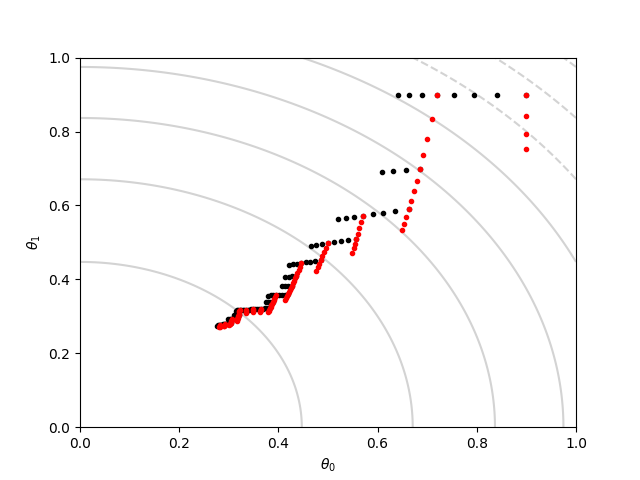
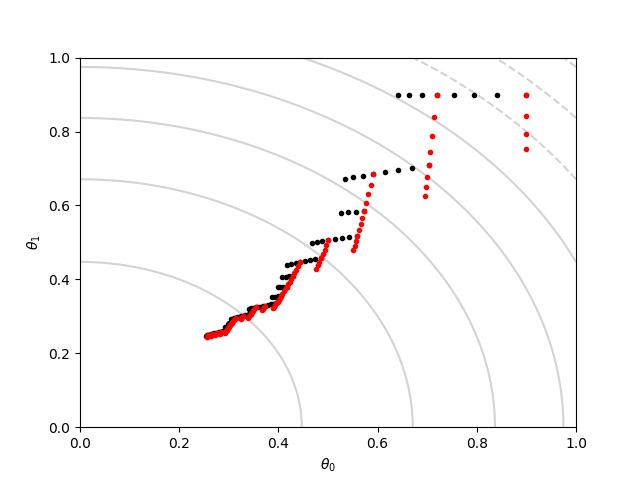
Remove the INIT worker instruction

Changed region(s): [[0.3125, 0.2812, 0.6875, 0.7188], [0.6562, 0.2188, 0.6875, 0.25]]

diff --git a/toy_model.py b/toy_model.py
@@ -11,8 +11,6 @@ class ToyModel:
         self.perturb_factors = [0.8, 1.2]
         self.lr = 0.02
 
-        
-
         if cluster_id == 0:
             self.hparams['h_0'] = 0.0
             self.hparams['h_1'] = 1.0
@@ -22,9 +20,6 @@ class ToyModel:
 
         self.build_graph_from_hparams(is_first_call=True)
         self.train_log = []
-
-    def init_variables(self):
-        self.sess.run([var.initializer for var in self.trainable_vars])
 
     def train(self, num_steps):
         for i in range(num_steps):
@@ -37,8 +32,6 @@ class ToyModel:
         self.hparams['h_1'] = self._perturb_float(self.hparams['h_1'], 0.0, 1.0)
         self.build_graph_from_hparams(is_first_call=False)
 
-    #the loss is not the same as the loss to compute the gradients
-    #this may be another bug of the paper
     def get_loss(self):
         return self.sess.run(self.fake_loss)
 
@@ -66,7 +59,6 @@ class ToyModel:
         config = tf.ConfigProto()
         config.gpu_options.per_process_gpu_memory_fraction = 0.1
         self.sess = tf.Session(graph=self.tf_graph, config=config)
-
         
         with self.tf_graph.as_default():
             self.theta_0 = tf.Variable(0.9)
@@ -80,7 +72,7 @@ class ToyModel:
             self.train_op = self.optimizer.minimize(self.loss)
 
             self.trainable_vars = [self.theta_0, self.theta_1]
-        self.init_variables()
+        self.sess.run([var.initializer for var in self.trainable_vars])
 
         if not is_first_call:
             for i in range(len(self.trainable_vars)):

diff --git a/main_manager.py b/main_manager.py
@@ -1,9 +1,8 @@
 # mpirun --oversubscribe -n 5 python main_manager.py
-#docker run hongfr/mpi-with-ssh
+#docker run hongfr/mpi-tf
 
 from mpi4py import MPI
 import os
-import time
 import tensorflow as tf
 
 from pbt_cluster import PBTCluster
@@ -18,13 +17,13 @@ rank = comm.Get_rank()
 master_rank = 0
 if rank == master_rank:
     #The PBT case
-    cluster = PBTCluster(2, comm, master_rank)
+    #cluster = PBTCluster(2, comm, master_rank)
     #The exploit only case
     #cluster = PBTCluster(2, comm, master_rank, do_explore=False)
     #The explore only case(still dirty, needs to change the code around line 78 to make this work)
     #cluster = PBTCluster(2, comm, master_rank, do_exploit=False)
     #The grid search case
-    #cluster = PBTCluster(2, comm, master_rank, do_exploit=False, do_explore=False)
+    cluster = PBTCluster(2, comm, master_rank, do_exploit=False, do_explore=False)
 
     cluster.train(100)
 
@@ -47,10 +46,6 @@ else:
                 #new_graph = SimpleNet(sess, i, hparam)
                 new_graph = ToyModel(i, hparam)
                 worker_graphs.append(new_graph)
-        elif inst == WorkerInstruction.INIT:
-            print('[{}]Initializing graphs'.format(rank))
-            for g in worker_graphs:
-                g.init_variables()
         elif inst == WorkerInstruction.TRAIN:
             num_steps = data[1]
             for g in worker_graphs:

diff --git a/pbt_cluster.py b/pbt_cluster.py
@@ -19,10 +19,8 @@ class PBTCluster:
         self.do_explore = do_explore
 
         self.build_all_graphs()
-        self.initialize_all_graphs()
 
     def build_all_graphs(self):
-        #load HPs and send to workers
         all_hparams_need_training = []
         hp_space = self.load_hp_space()
         for i in range(self.pop_size):         
@@ -43,14 +41,6 @@ class PBTCluster:
                 reqs.append(self.comm.isend((WorkerInstruction.ADD_GRAPHS, hparams_for_the_worker, begin), dest=i))
                 graphs_to_make -= graphs_per_worker
                 num_workers_sent += 1
-        for req in reqs:
-            req.wait()
-
-    def initialize_all_graphs(self):
-        reqs = []
-        for i in range(0, self.comm.Get_size()):
-            if i != self.master_rank:
-                reqs.append(self.comm.isend((WorkerInstruction.INIT, ), dest=i))
         for req in reqs:
             req.wait()
 

diff --git a/constants.py b/constants.py
@@ -2,7 +2,6 @@ from enum import Enum
 
 class WorkerInstruction(Enum):
     ADD_GRAPHS = 0
-    INIT = 1
     EXIT = 2
     TRAIN = 3
     GET = 4
